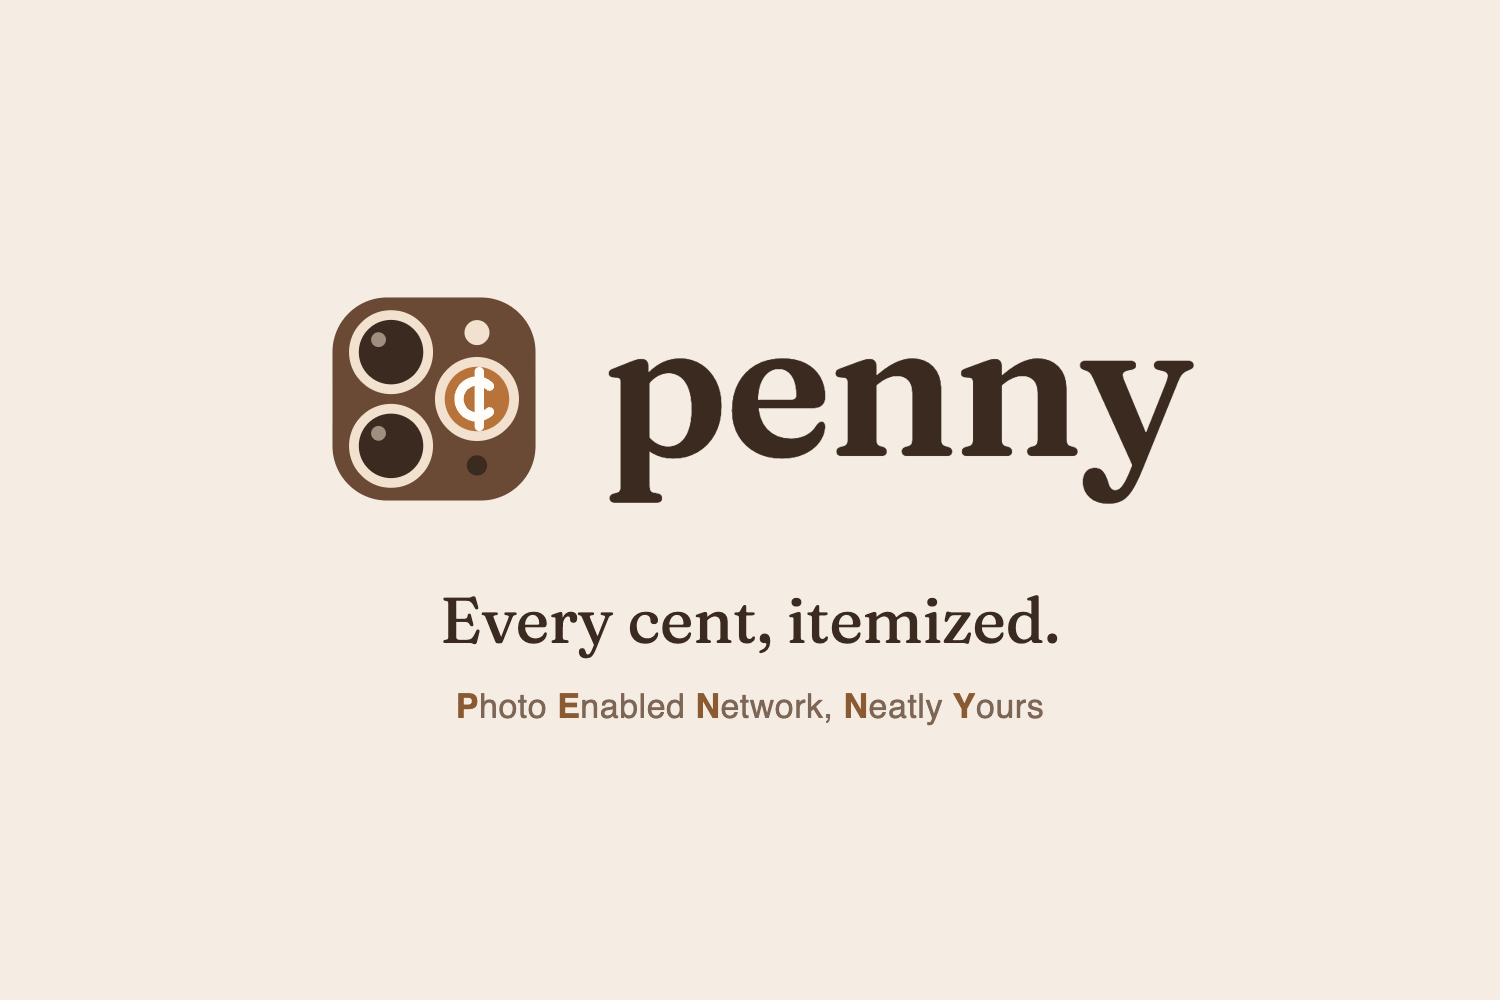
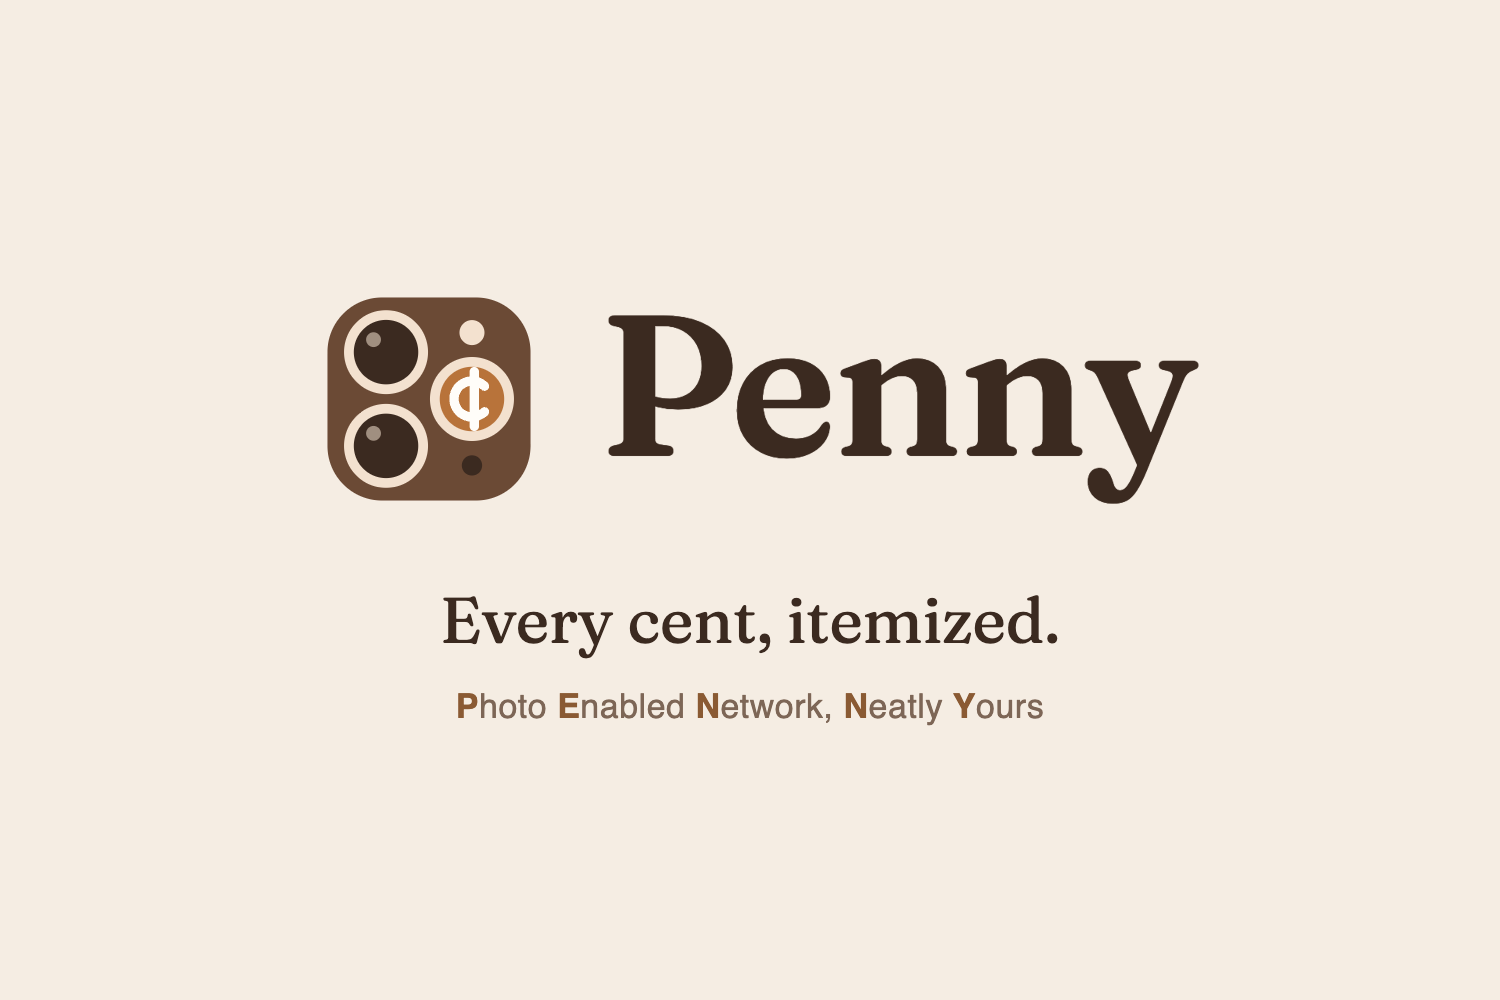
C7: new Shortcut QR code, capitalize Penny wordmark

Changed region(s): [[0.3987, 0.31, 0.7973, 0.527], [0.2147, 0.31, 0.368, 0.496]]

diff --git a/frontend/components/Logo.tsx b/frontend/components/Logo.tsx
@@ -1,5 +1,5 @@
 // The Penny logo: the back of an iPhone's camera module where one lens is a
-// copper penny ("snap a receipt, see every cent"), plus an optional "penny"
+// copper penny ("snap a receipt, see every cent"), plus an optional "Penny"
 // wordmark. Flat shapes only, so it stays crisp from a 16px favicon up to a
 // slide. Colors come from the tokens in app/globals.css. app/icon.svg and
 // public/brand/ are the same mark with the colors written out, because image
@@ -51,7 +51,7 @@ export default function Logo({ size = 32, showWordmark = true }: { size?: number
       <LogoMark size={size} />
       {showWordmark && (
         <span className="font-display font-semibold leading-none text-text" style={{ fontSize: size * 0.62 }}>
-          penny
+          Penny
         </span>
       )}
     </span>
